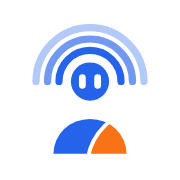
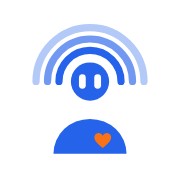
Switch the mark to a solid body with a small orange heart (#19)
* Version icon URLs so browsers drop the cached orange-eyed mark.

Browsers cache favicons aggressively, so the white-eyes update stayed
invisible to anyone who had loaded the old one.

* Switch the SimCrew mark to a solid body with a small orange heart.

Replaces the split human/bot body. Bumps icon URLs to v=3 so browsers
fetch the new mark, and regenerates the touch icon and social card.

---------

Changed region(s): [[0.4722, 0.6667, 0.7222, 0.8611]]

diff --git a/website/index.html b/website/index.html
@@ -5,13 +5,13 @@
 <meta name="viewport" content="width=device-width, initial-scale=1.0">
 <title>SimCrew — AI synthetic developers that test your DX</title>
 <meta name="description" content="Give SimCrew a git repo URL. It spins up isolated agent containers, one per persona, each clones your repo and evaluates it like a real developer. Findings come back deduplicated, scored, and ready to act on.">
-<link rel="icon" type="image/svg+xml" href="favicon.svg">
-<link rel="apple-touch-icon" href="apple-touch-icon.png">
+<link rel="icon" type="image/svg+xml" href="favicon.svg?v=3">
+<link rel="apple-touch-icon" href="apple-touch-icon.png?v=3">
 <meta property="og:type" content="website">
 <meta property="og:url" content="https://mpk-droid.github.io/SimCrew/">
 <meta property="og:title" content="SimCrew">
 <meta property="og:description" content="AI synthetic developers that test your developer experience. Open source, Apache 2.0.">
-<meta property="og:image" content="https://mpk-droid.github.io/SimCrew/og.png">
+<meta property="og:image" content="https://mpk-droid.github.io/SimCrew/og.png?v=3">
 <meta property="og:image:width" content="1280">
 <meta property="og:image:height" content="640">
 <meta name="twitter:card" content="summary_large_image">
@@ -376,7 +376,7 @@
 
 <header class="nav">
   <div class="wrap nav-inner">
-    <div class="brand"><img src="favicon.svg" alt=""> SimCrew</div>
+    <div class="brand"><img src="favicon.svg?v=3" alt=""> SimCrew</div>
     <nav class="nav-links">
       <a href="#how-it-works">How it works</a>
       <a href="#features">Features</a>
@@ -544,7 +544,7 @@ docker compose up --build</pre>
 <footer>
   <div class="wrap">
     <div class="foot-top">
-      <div class="brand"><img src="favicon.svg" alt=""> SimCrew</div>
+      <div class="brand"><img src="favicon.svg?v=3" alt=""> SimCrew</div>
       <div class="foot-links">
         <a href="https://github.com/mpk-droid/SimCrew">GitHub</a>
         <a href="https://github.com/mpk-droid/SimCrew#readme">Docs</a>

diff --git a/frontend/src/components/Layout.tsx b/frontend/src/components/Layout.tsx
@@ -31,7 +31,7 @@ export default function Layout() {
       <aside className="sidebar">
         <div className="sidebar-header">
           <h1 className="sidebar-title">
-            <img src="/favicon.svg" alt="" width={26} height={26} />
+            <img src="/favicon.svg?v=3" alt="" width={26} height={26} />
             SimCrew
           </h1>
         </div>

diff --git a/frontend/index.html b/frontend/index.html
@@ -2,7 +2,7 @@
 <html lang="en">
   <head>
     <meta charset="UTF-8" />
-    <link rel="icon" type="image/svg+xml" href="/favicon.svg" />
+    <link rel="icon" type="image/svg+xml" href="/favicon.svg?v=3" />
     <meta name="viewport" content="width=device-width, initial-scale=1.0" />
     <title>SimCrew</title>
   </head>
